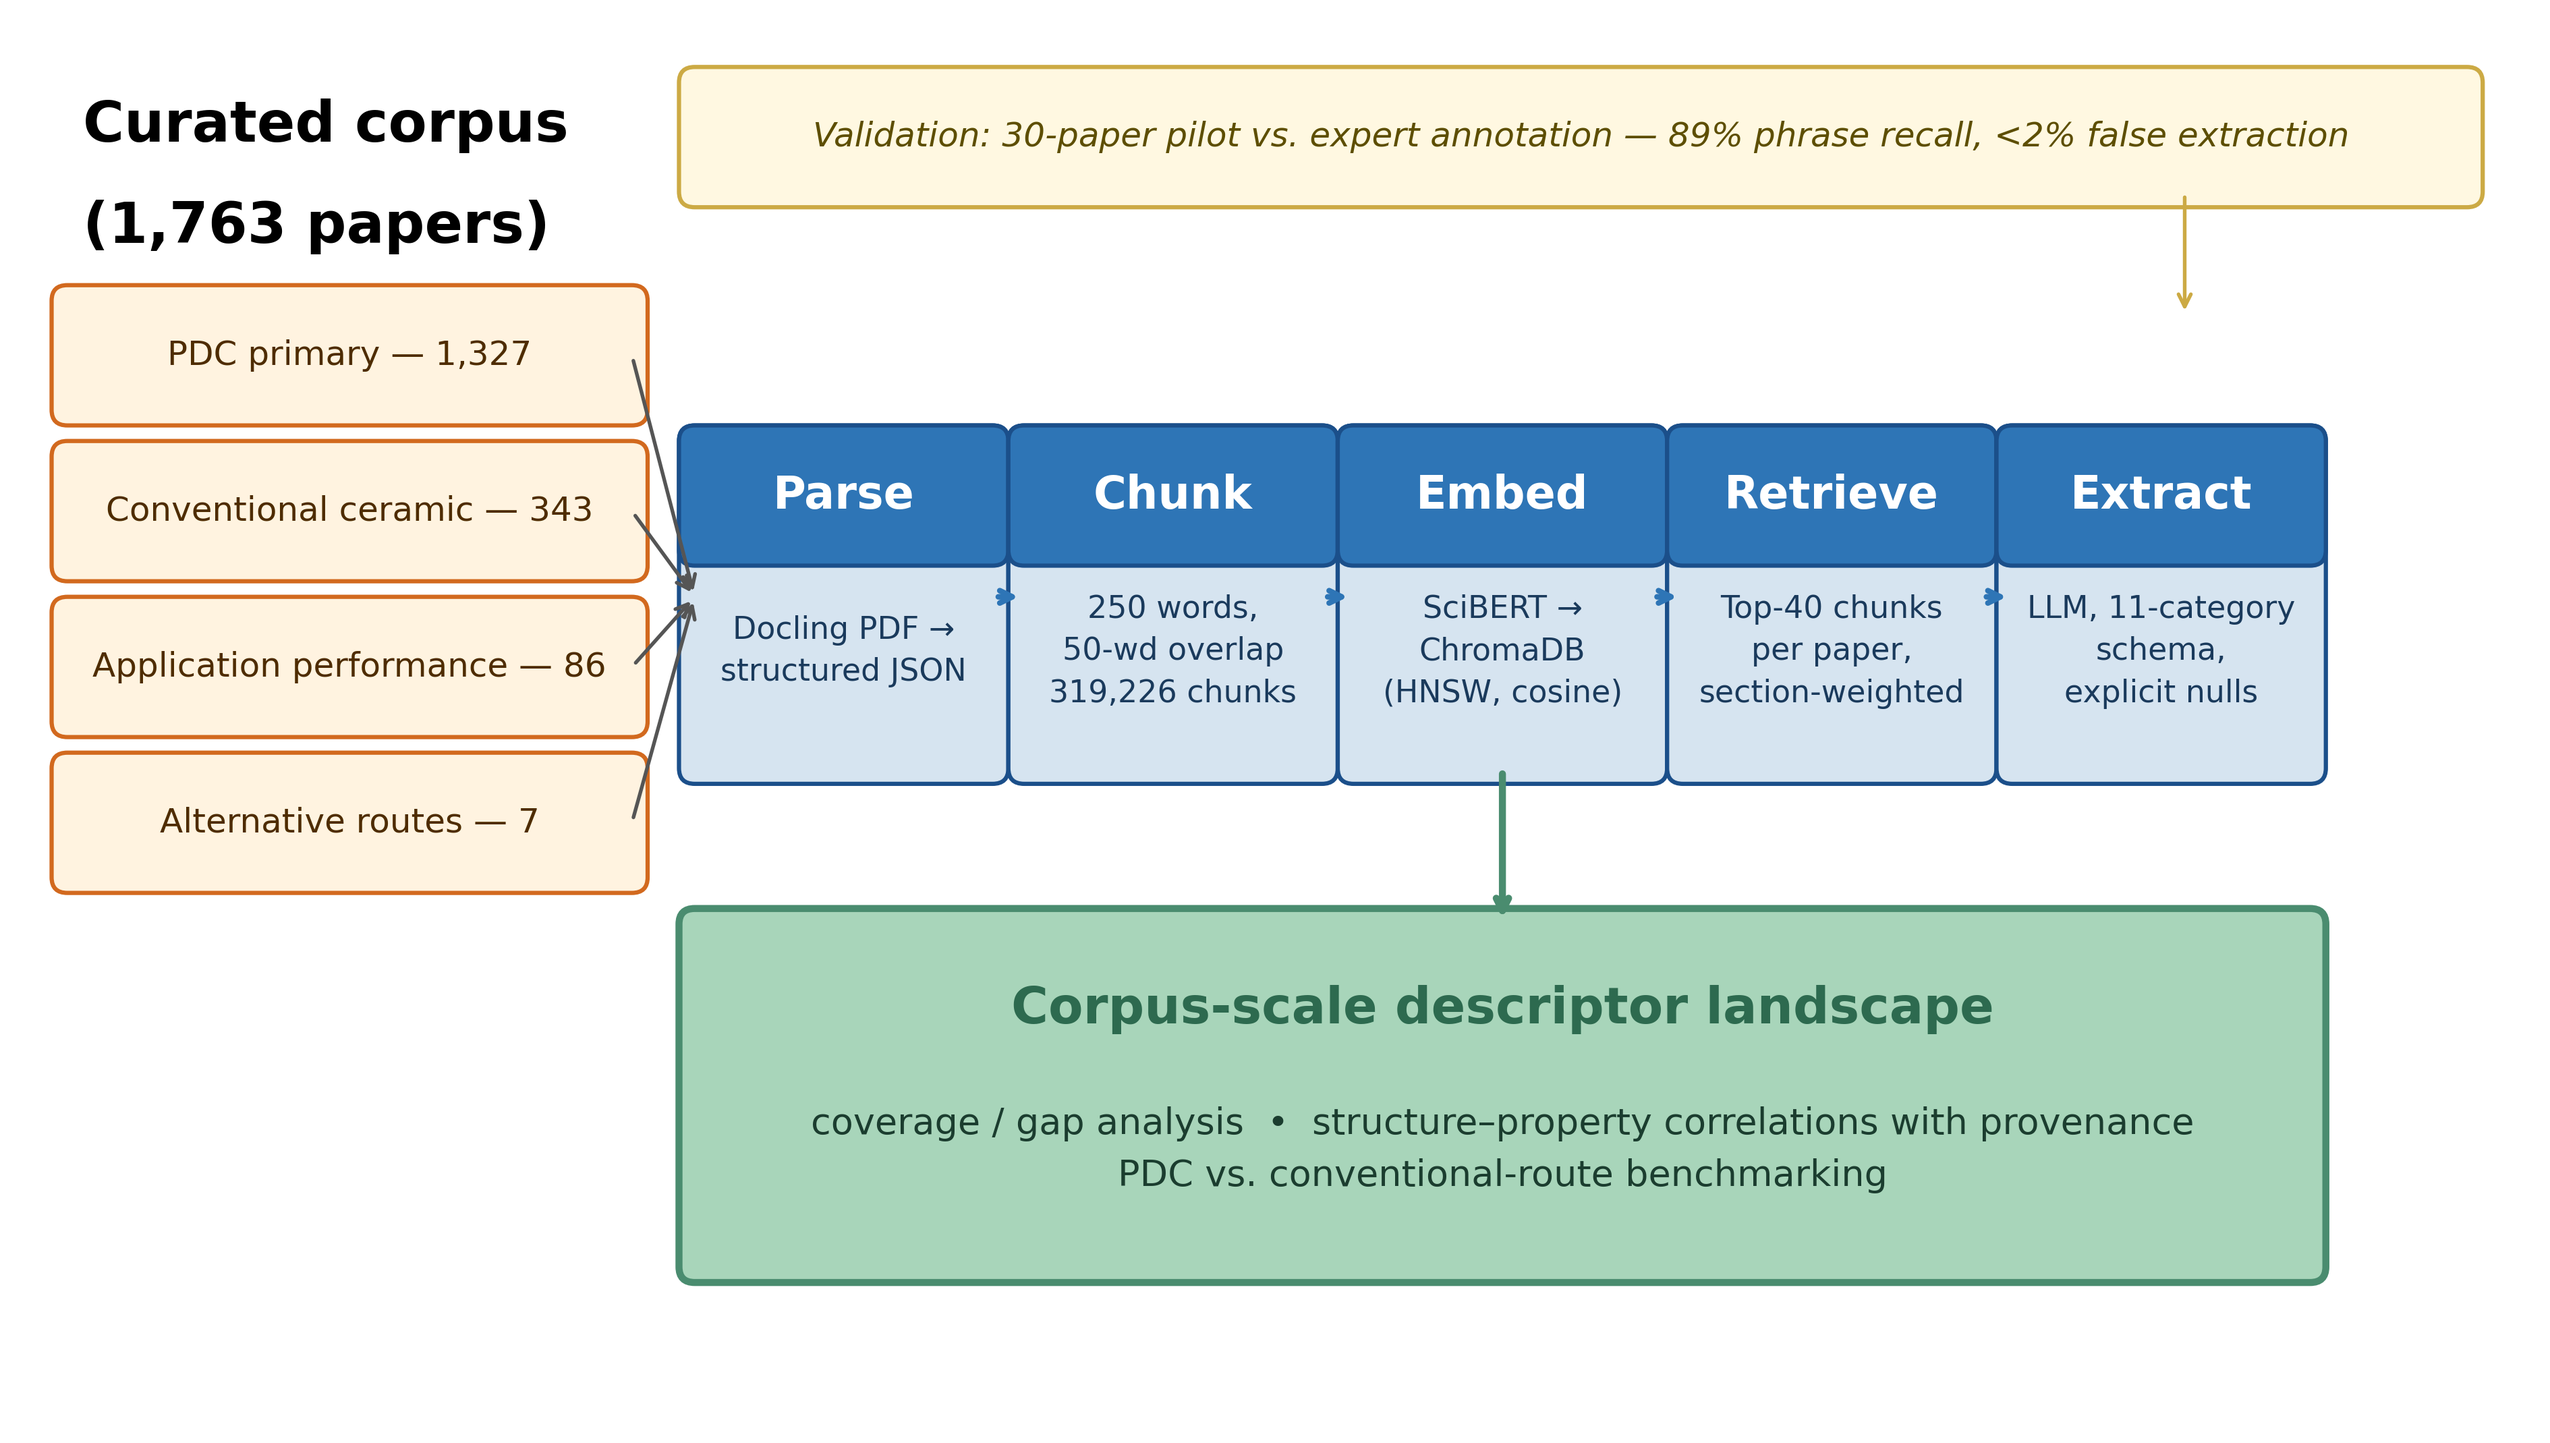
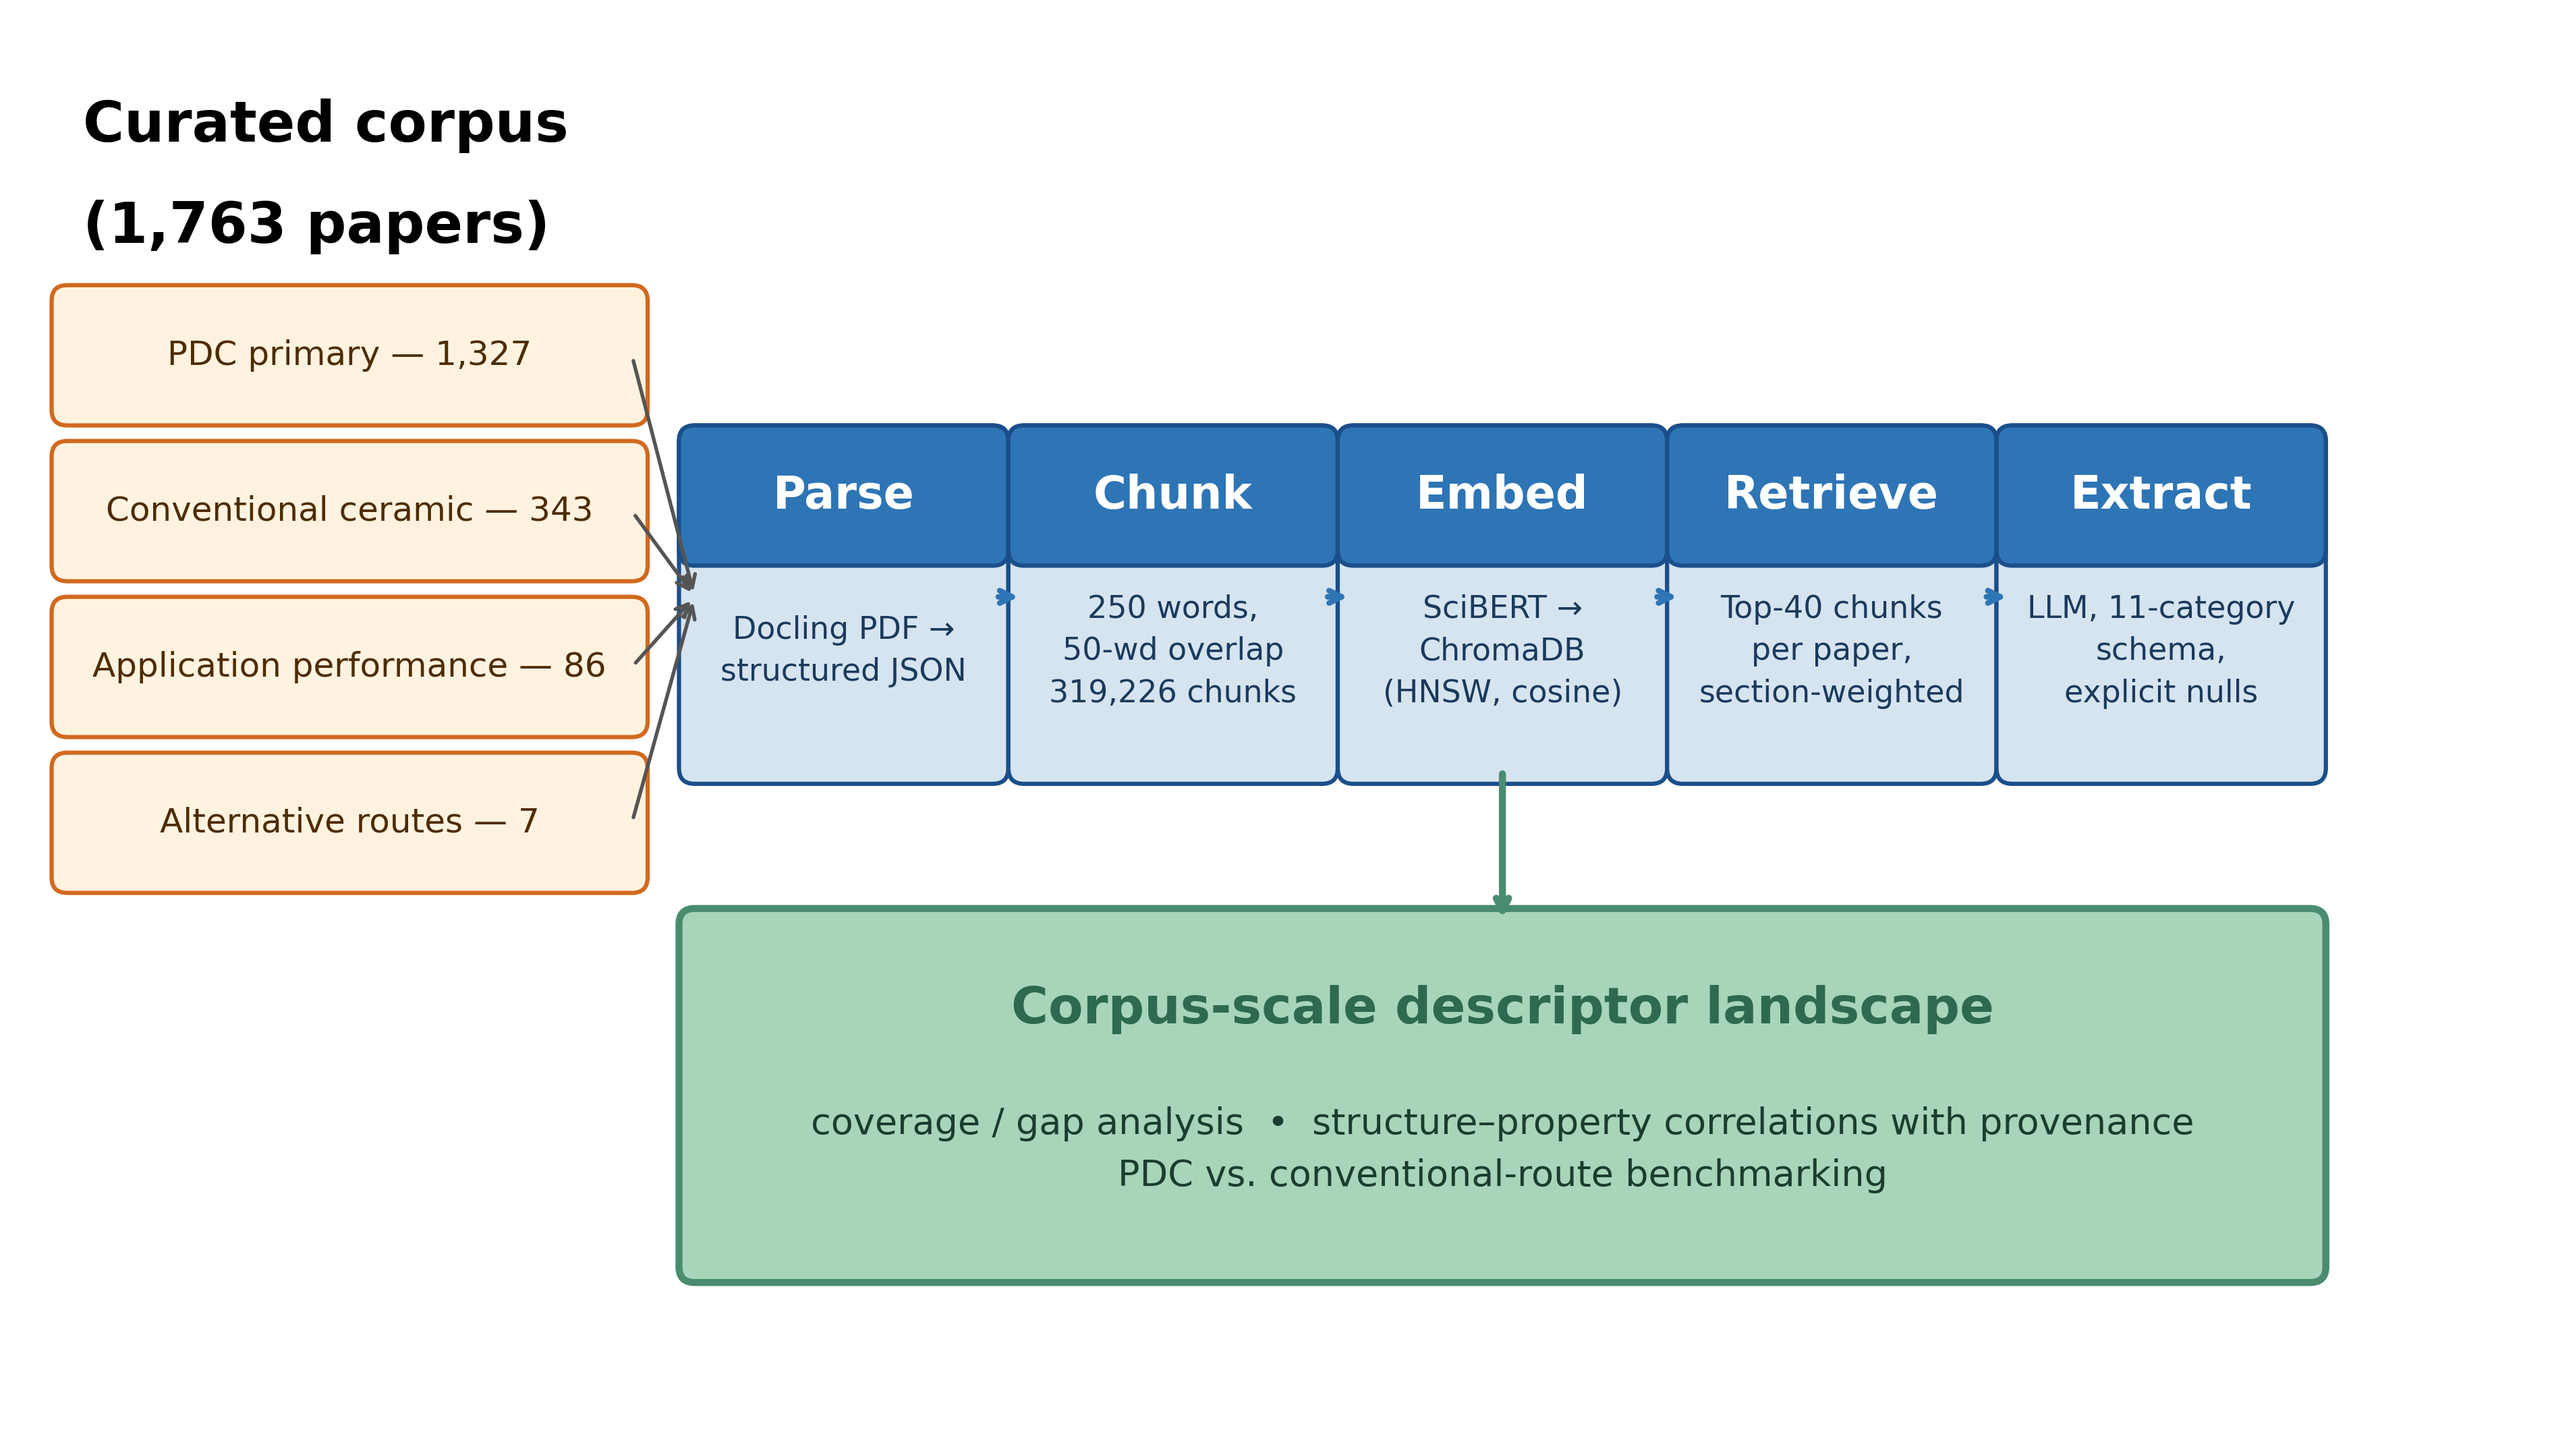
Remove the validation pilot
No annotation record exists for the 30-paper pilot, so it is dropped from
the paper and from this repository. The README now states that extraction
accuracy was not measured against manual annotation. Figure 1 no longer
shows the pilot figures.

Changed region(s): [[0.2497, 0.0309, 0.9989, 0.1543]]

diff --git a/scripts/analysis/make_figures.py b/scripts/analysis/make_figures.py
@@ -62,10 +62,6 @@ def fig1():
         rbox(0.3, y, 3.6, 0.7, "#FFF3E0", "#D2691E")
         ax.text(2.1, y + 0.35, label, fontsize=12, ha="center", va="center", color="#4E2C00")
         ax.annotate("", xy=(4.3, 5.3), xytext=(3.9, y + 0.35), arrowprops=dict(arrowstyle="->", color="#555555", lw=1.3))
-    rbox(4.3, 7.9, 11.3, 0.7, "#FFF8E1", "#CCAA44")
-    ax.text(9.95, 8.25, "Validation: 30-paper pilot vs. expert annotation — 89% phrase recall, <2% false extraction",
-            fontsize=12, ha="center", va="center", color="#5D4E00", style="italic")
-    ax.annotate("", xy=(13.8, 7.1), xytext=(13.8, 7.9), arrowprops=dict(arrowstyle="->", color="#CCAA44", lw=1.3))
     steps = [("Parse", "Docling PDF →\nstructured JSON", 4.3),
              ("Chunk", f"250 words,\n50-wd overlap\n{raw_chunks:,} chunks", 6.4),
              ("Embed", "SciBERT →\nChromaDB\n(HNSW, cosine)", 8.5),

diff --git a/README.md b/README.md
@@ -22,7 +22,6 @@ This repository covers the expanded, deduplicated 1,763-paper corpus used in the
 | `data/residual_duplicate_groups.json` | Record pairs that still share most of their chunk text after deduplication (reported in the paper). |
 | `scripts/` | The pipeline: retrieval, PDF parsing, chunking, embedding, extraction, deduplication, search. |
 | `scripts/analysis/` | Statistics (`stats_lib.py`) and figure generation (`make_figures.py`). |
-| `docs/validation_pilot/` | Annotation protocol and results of the 30-paper validation pilot. |
 
 The full-text corpus (PDFs, parsed text, chunks and the vector index) is not included because the papers are under publisher copyright.
 
@@ -62,6 +61,8 @@ Tiers: `pdc` 1,327 papers, `conventional_ceramic` 343, `application` 86, `altern
 Two unpublished documents (research proposals) were in earlier versions of the corpus, including the v1 preprint, and were removed in the second round. They are withheld from every file here; in the round-one pre-deduplication table their records are replaced by empty placeholders, so v1-corpus comparison values recomputed from this repository differ slightly from the preprint.
 
 A field counts as reported unless it is null, false or empty. The `notes` and free-text `description` fields are model-written summaries of the paper, not quotations.
+
+Extraction accuracy has not been measured against manual annotation, and individual values have not been checked by hand. The prompt asks the model to return null for anything not clearly stated, which should make omissions more common than invented values, but neither rate is known.
 
 ## Source list
 

diff --git a/LICENSE-DATA.md b/LICENSE-DATA.md
@@ -1,6 +1,6 @@
 # Data license
 
-The data files in `outputs/`, `data/`, `prompt/` and `docs/`, and the figures in `outputs/manuscript_v2/`, are licensed under the Creative Commons Attribution 4.0 International License (CC BY 4.0).
+The data files in `outputs/`, `data/` and `prompt/`, and the figures in `outputs/manuscript_v2/`, are licensed under the Creative Commons Attribution 4.0 International License (CC BY 4.0).
 
 Full legal text: https://creativecommons.org/licenses/by/4.0/legalcode
 
